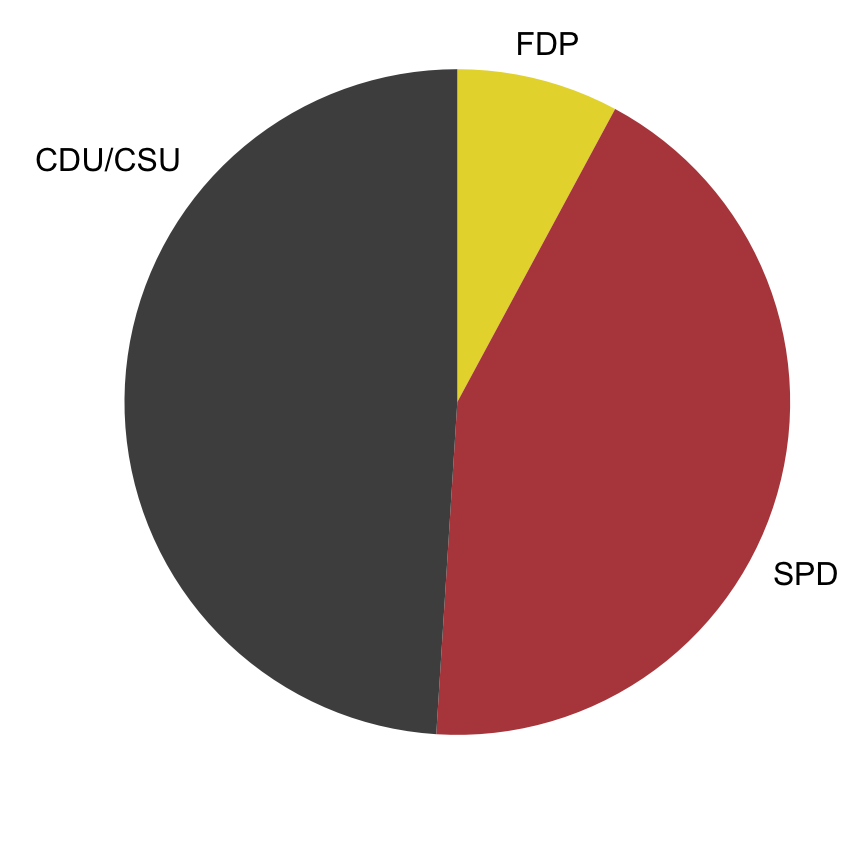
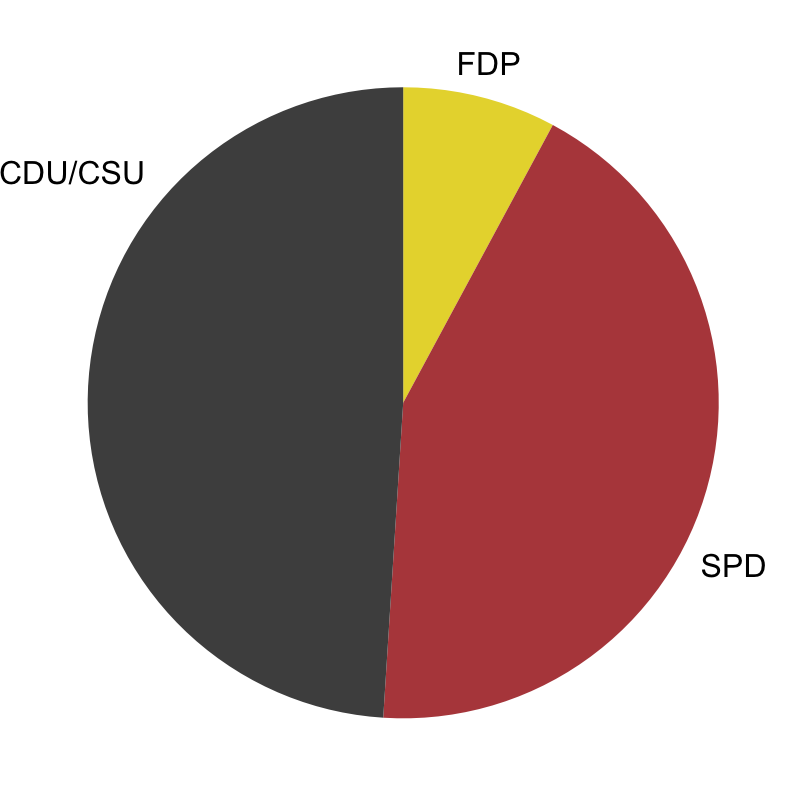
figure tweaks, a few more captions.

diff --git a/docs/visualizing-proportions.html b/docs/visualizing-proportions.html
@@ -111,28 +111,26 @@
 <p>A pie chart (Figure <a href="visualizing-proportions.html#fig:bundestag-pie">10.1</a>).</p>
 
 <div class="figure" style="text-align: center"><span id="fig:bundestag-pie"></span>
-<img src="visualizing_proportions_files/figure-html/bundestag-pie-1.png" alt="Party composition of the 8th German Bundestag, 1976–1980, visualized as a pie chart." width="432" />
+<img src="visualizing_proportions_files/figure-html/bundestag-pie-1.png" alt="Party composition of the 8th German Bundestag, 1976–1980, visualized as a pie chart. This visualization shows clearly that the ruling coalition of SPD and FDP had a small majority over the opposition CDU/CSU." width="403.2" />
 <p class="caption">
-Figure 10.1: Party composition of the 8th German Bundestag, 1976–1980, visualized as a pie chart.
+Figure 10.1: Party composition of the 8th German Bundestag, 1976–1980, visualized as a pie chart. This visualization shows clearly that the ruling coalition of SPD and FDP had a small majority over the opposition CDU/CSU.
 </p>
 </div>
 
 <div class="figure" style="text-align: center"><span id="fig:bundestag-stacked-bars"></span>
-<img src="visualizing_proportions_files/figure-html/bundestag-stacked-bars-1.png" alt="Party composition of the 8th German Bundestag, 1976–1980, visualized as stacked bars. (a) Bars stacked vertically. (b) Bars stacked horizontally." width="816" />
+<img src="visualizing_proportions_files/figure-html/bundestag-stacked-bars-1.png" alt="Party composition of the 8th German Bundestag, 1976–1980, visualized as stacked bars. (a) Bars stacked vertically. (b) Bars stacked horizontally. It is not immediately obvious that SPD and FDP jointly had more seats than CDU/CSU." width="816" />
 <p class="caption">
-Figure 10.2: Party composition of the 8th German Bundestag, 1976–1980, visualized as stacked bars. (a) Bars stacked vertically. (b) Bars stacked horizontally.
+Figure 10.2: Party composition of the 8th German Bundestag, 1976–1980, visualized as stacked bars. (a) Bars stacked vertically. (b) Bars stacked horizontally. It is not immediately obvious that SPD and FDP jointly had more seats than CDU/CSU.
 </p>
 </div>
 
 <div class="figure" style="text-align: center"><span id="fig:bundestag-bars-side-by-side"></span>
-<img src="visualizing_proportions_files/figure-html/bundestag-bars-side-by-side-1.png" alt="Party composition of the 8th German Bundestag, 1976–1980, visualized as side-by-side bars." width="576" />
+<img src="visualizing_proportions_files/figure-html/bundestag-bars-side-by-side-1.png" alt="Party composition of the 8th German Bundestag, 1976–1980, visualized as side-by-side bars. As in Figure 10.2, it is not immediately obvious that SPD and FDP jointly had more seats than CDU/CSU." width="576" />
 <p class="caption">
-Figure 10.3: Party composition of the 8th German Bundestag, 1976–1980, visualized as side-by-side bars.
+Figure 10.3: Party composition of the 8th German Bundestag, 1976–1980, visualized as side-by-side bars. As in Figure <a href="visualizing-proportions.html#fig:bundestag-stacked-bars">10.2</a>, it is not immediately obvious that SPD and FDP jointly had more seats than CDU/CSU.
 </p>
 </div>
-<p><img src="visualizing_proportions_files/figure-html/five-cases-side-by-side-1.png" width="576" style="display: block; margin: auto;" /></p>
-<p><img src="visualizing_proportions_files/figure-html/five-cases-stacked-bars-1.png" width="576" style="display: block; margin: auto;" /></p>
-<p><img src="visualizing_proportions_files/figure-html/five-cases-pies-1.png" width="816" style="display: block; margin: auto;" /></p>
+<p>None of these three types of visualizations are consistently superior over any other, however. Depending on the features of the dataset and the specific story you want to tell, you may want to favor one or the other approach.</p>
 <table>
 <caption><span id="tab:pros-cons-pie-bar">Table 10.1: </span> Pros and cons of common apporaches to visualizing proportions: pie charts, stacked bars, and side-by-side bars.</caption>
 <colgroup>
@@ -188,6 +186,16 @@ Figure 10.3: Party composition of the 8th German Bundestag, 1976–1980, visuali
 </tr>
 </tbody>
 </table>
+<p><img src="visualizing_proportions_files/figure-html/marketshare-side-by-side-1.png" width="576" style="display: block; margin: auto;" /></p>
+<p><img src="visualizing_proportions_files/figure-html/five-companies-stacked-bars-1.png" width="576" style="display: block; margin: auto;" /></p>
+
+<div class="figure" style="text-align: center"><span id="fig:marketshare-pies"></span>
+<img src="visualizing_proportions_files/figure-html/marketshare-pies-1.png" alt="Marketshare of five hypothetical companies for the years 2015–2017, visualized as pie charts." width="816" />
+<p class="caption">
+Figure 10.4: Marketshare of five hypothetical companies for the years 2015–2017, visualized as pie charts.
+</p>
+</div>
+<p><strong>Additional things this chapter needs: A time course of proportions, visualized as stacked bars (ideally, just two categories); stacked density distributions (continuous x axis); treemap (maybe move to separate chapter?).</strong></p>
 
 </div>
             </section>

diff --git a/docs/visualizing_proportions.md b/docs/visualizing_proportions.md
@@ -6,14 +6,14 @@
 
 A pie chart (Figure \@ref(fig:bundestag-pie)).
 
-(ref:bundestag-pie) Party composition of the 8th German Bundestag, 1976--1980, visualized as a pie chart.
+(ref:bundestag-pie) Party composition of the 8th German Bundestag, 1976--1980, visualized as a pie chart. This visualization shows clearly that the ruling coalition of SPD and FDP had a small majority over the opposition CDU/CSU.
 
 <div class="figure" style="text-align: center">
-<img src="visualizing_proportions_files/figure-html/bundestag-pie-1.png" alt="(ref:bundestag-pie)" width="432" />
+<img src="visualizing_proportions_files/figure-html/bundestag-pie-1.png" alt="(ref:bundestag-pie)" width="403.2" />
 <p class="caption">(\#fig:bundestag-pie)(ref:bundestag-pie)</p>
 </div>
 
-(ref:bundestag-stacked-bars) Party composition of the 8th German Bundestag, 1976--1980, visualized as stacked bars. (a) Bars stacked vertically. (b) Bars stacked horizontally.
+(ref:bundestag-stacked-bars) Party composition of the 8th German Bundestag, 1976--1980, visualized as stacked bars. (a) Bars stacked vertically. (b) Bars stacked horizontally. It is not immediately obvious that SPD and FDP jointly had more seats than CDU/CSU.
 
 <div class="figure" style="text-align: center">
 <img src="visualizing_proportions_files/figure-html/bundestag-stacked-bars-1.png" alt="(ref:bundestag-stacked-bars)" width="816" />
@@ -21,20 +21,14 @@ A pie chart (Figure \@ref(fig:bundestag-pie)).
 </div>
 
 
-(ref:bundestag-bars-side-by-side) Party composition of the 8th German Bundestag, 1976--1980, visualized as side-by-side bars.
+(ref:bundestag-bars-side-by-side) Party composition of the 8th German Bundestag, 1976--1980, visualized as side-by-side bars. As in Figure \@ref(fig:bundestag-stacked-bars), it is not immediately obvious that SPD and FDP jointly had more seats than CDU/CSU.
 
 <div class="figure" style="text-align: center">
 <img src="visualizing_proportions_files/figure-html/bundestag-bars-side-by-side-1.png" alt="(ref:bundestag-bars-side-by-side)" width="576" />
 <p class="caption">(\#fig:bundestag-bars-side-by-side)(ref:bundestag-bars-side-by-side)</p>
 </div>
 
-
-
-<img src="visualizing_proportions_files/figure-html/five-cases-side-by-side-1.png" width="576" style="display: block; margin: auto;" />
-
-<img src="visualizing_proportions_files/figure-html/five-cases-stacked-bars-1.png" width="576" style="display: block; margin: auto;" />
-
-<img src="visualizing_proportions_files/figure-html/five-cases-pies-1.png" width="816" style="display: block; margin: auto;" />
+None of these three types of visualizations are consistently superior over any other, however. Depending on the features of the dataset and the specific story you want to tell, you may want to favor one or the other approach.
 
 Table: (\#tab:pros-cons-pie-bar) Pros and cons of common apporaches to visualizing proportions: pie charts, stacked bars, and side-by-side bars. 
 
@@ -63,5 +57,21 @@ proportions or time series
 of proportions
 ----------------------------------------------------------------------------------------
 
+
+
+
+<img src="visualizing_proportions_files/figure-html/marketshare-side-by-side-1.png" width="576" style="display: block; margin: auto;" />
+
+<img src="visualizing_proportions_files/figure-html/five-companies-stacked-bars-1.png" width="576" style="display: block; margin: auto;" />
+
+
+(ref:marketshare-pies) Marketshare of five hypothetical companies for the years 2015--2017, visualized as pie charts.
+
+<div class="figure" style="text-align: center">
+<img src="visualizing_proportions_files/figure-html/marketshare-pies-1.png" alt="(ref:marketshare-pies)" width="816" />
+<p class="caption">(\#fig:marketshare-pies)(ref:marketshare-pies)</p>
+</div>
+
+**Additional things this chapter needs: A time course of proportions, visualized as stacked bars (ideally, just two categories); stacked density distributions (continuous x axis); treemap (maybe move to separate chapter?).**
 
 
